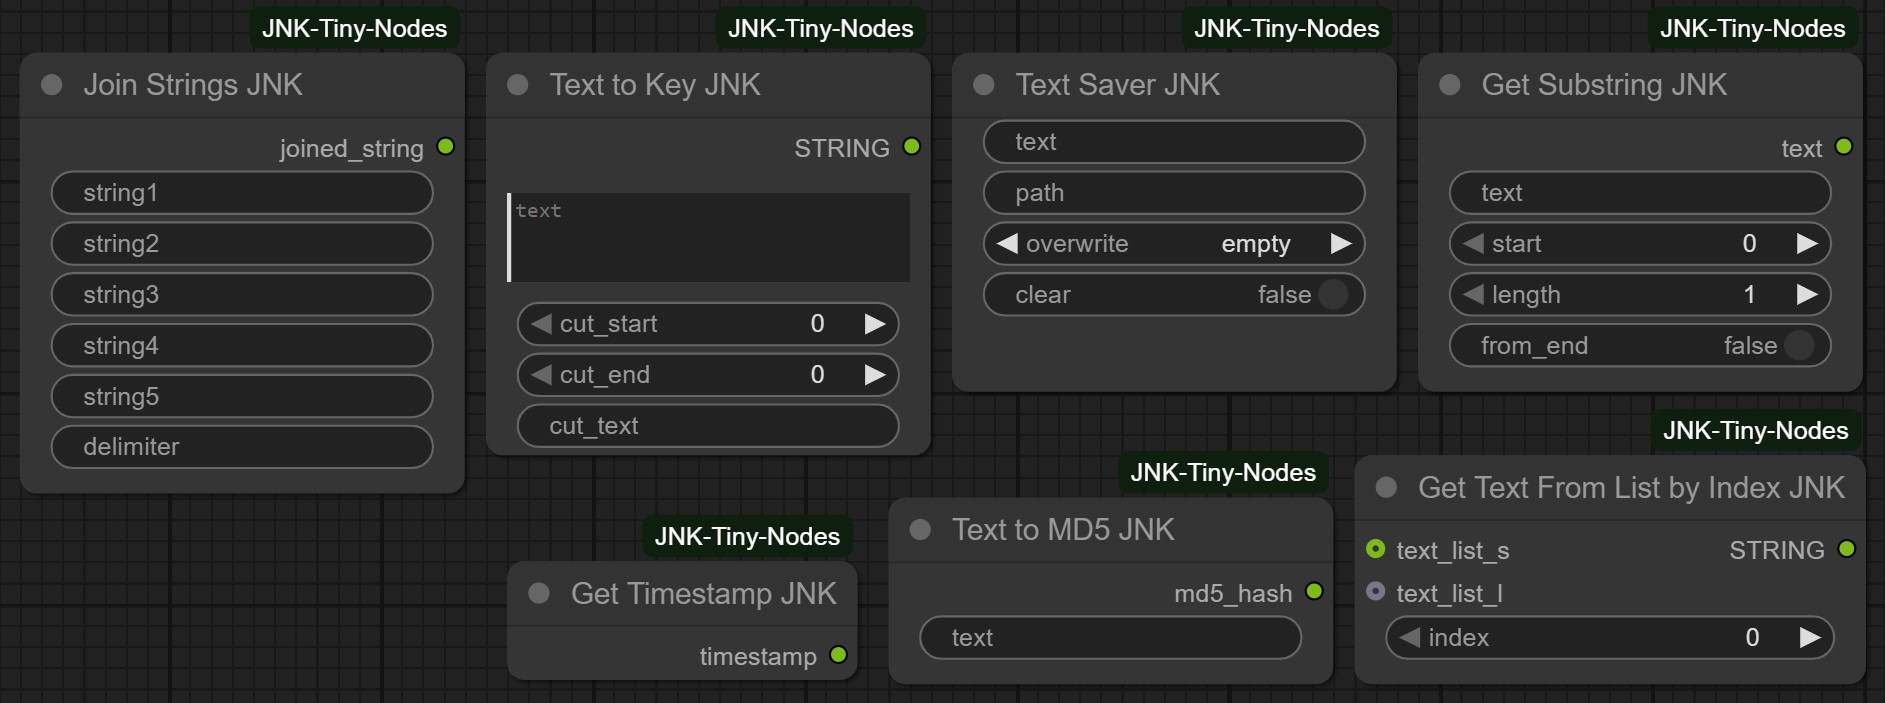
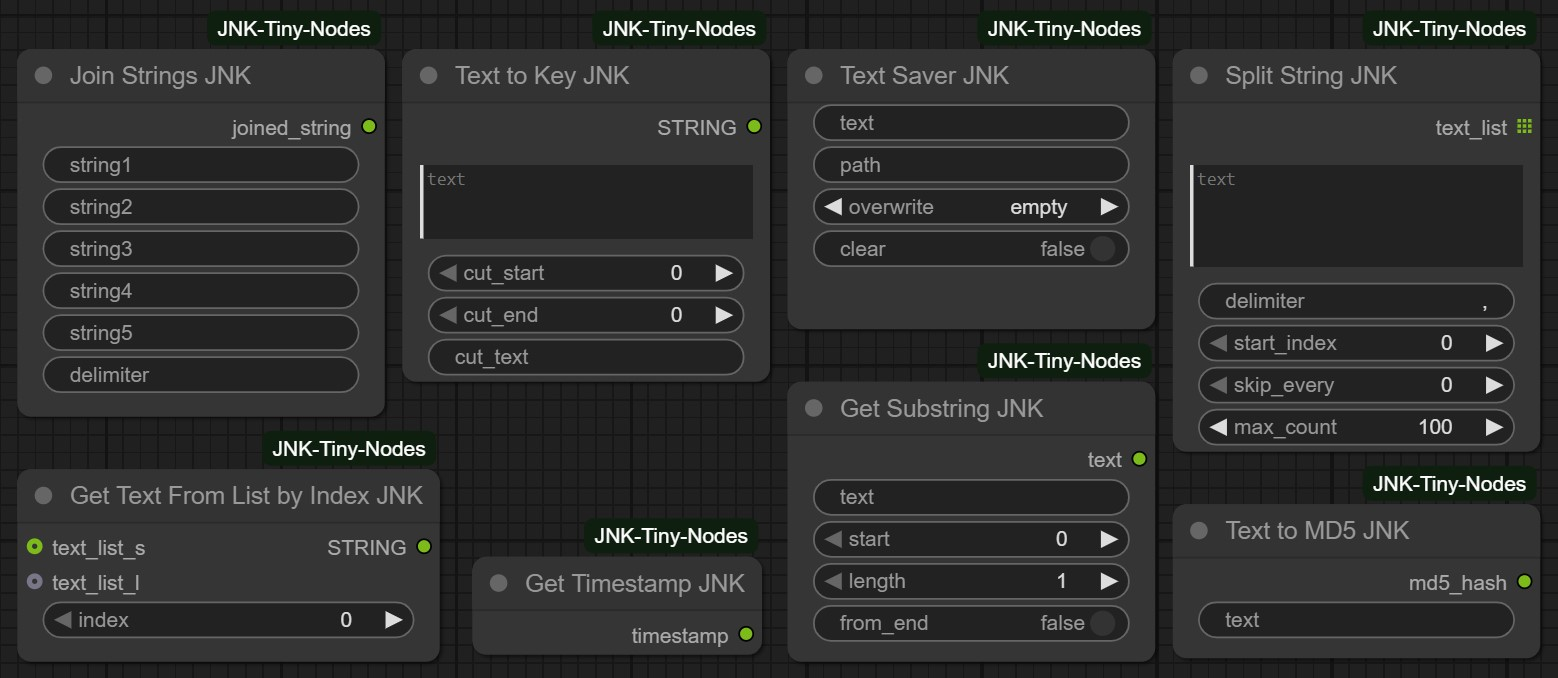
v1.1.3: Added Split String node

diff --git a/nodes.py b/nodes.py
@@ -5,6 +5,7 @@ import uuid
 import json
 import shutil
 import hashlib
+import codecs
 from datetime import datetime
 from pathlib import Path
 from typing import Any, Callable, Dict, List, Tuple, Union
@@ -1092,6 +1093,32 @@ class JoinStrings_JNK:
         strings = [s for s in [string1, string2, string3, string4, string5] if s]
         result = delimiter.join(strings)
         return (result,)
+    
+
+class SplitString_JNK:
+    @classmethod
+    def INPUT_TYPES(cls):
+        return {
+            "required": {
+                "text": ("STRING", {"multiline": True}),
+                "delimiter": ("STRING", {"default": ","}),
+                "start_index": ("INT", {"default": 0, "min": 0, "max": 1000}),
+                "skip_every": ("INT", {"default": 0, "min": 0, "max": 10}),
+                "max_count": ("INT", {"default": 100, "min": 1, "max": 1000}),
+            }
+        }
+    RETURN_TYPES = ("STRING",)
+    RETURN_NAMES = ("text_list",)
+    FUNCTION = "split_text"
+    OUTPUT_IS_LIST = (True,)
+    CATEGORY = "🔧 JNK"
+    def split_text(self, text, delimiter, start_index, skip_every, max_count):
+        if delimiter == "":arr = [text.strip()]
+        else:
+            delimiter = codecs.decode(delimiter, 'unicode_escape')
+            arr = [line.strip() for line in text.split(delimiter) if line.strip()]
+        arr = arr[start_index:start_index + max_count * (skip_every + 1):(skip_every + 1)]
+        return (arr,)
 
 class GetTimestamp_JNK:
     def __init__(self): pass

diff --git a/__init__.py b/__init__.py
@@ -27,6 +27,7 @@ NODE_CLASS_MAPPINGS = {
     "Text to Key JNK":Model2Key_JNK,
     "Text to MD5 JNK":Text2MD5_JNK,
     "Join Strings JNK":JoinStrings_JNK,
+    "Split String JNK":SplitString_JNK,
     "Get Timestamp JNK":GetTimestamp_JNK,
     ## Logic
     "Switch Integer JNK":SwitchInt_JNK,
@@ -70,6 +71,7 @@ NODE_DISPLAY_NAME_MAPPINGS = {
     "Model2Key_JNK":"Text to Key",
     "Text2MD5_JNK":"Text to MD5",
     "JoinStrings_JNK":"Join Strings",
+    "SplitString_JNK":"Split String",
     "GetTimestamp_JNK":"Get Timestamp",
     ## Logic
     "SwitchInt_JNK":"Switch (Integer)",

diff --git a/README.md b/README.md
@@ -32,17 +32,20 @@ pip install google-genai
 
 ## 🔄 Changelog
 
+### v1.1.3 (July 14, 2025)
+- Added "Split String" node for advanced text splitting. Fixed minor bugs
+
 ### v1.1.2 (July 12, 2025)
 - Added 2 utility nodes to enhance "Ask Google Gemini" workflow.
 
 ### v1.1.1 (July 10, 2025)
 - Added "Prepare Image for AI" node for optimizing images before sending to AI models (token saving)
 
-### v1.1.0 (July 8, 2025)
-- Added "Ask Google Gemini" node for text and image AI processing
-
 <details>
 <summary>Show older updates</summary>
+
+### v1.1.0 (July 8, 2025)
+- Added "Ask Google Gemini" node for text and image AI processing
 
 ### v1.0.0 (June 4, 2025)
 - Initial release
@@ -91,6 +94,7 @@ pip install google-genai
 - **Text to Key** - Convert text to key. Cuts beginning and end of text to create keys from these parts.
 - **Text to MD5** - Generate MD5 hashes from text for unique identifiers.
 - **Join Strings** - Concatenate multiple strings with custom delimiters. Text can be written directly in the node.
+- **Split String** - Split text by delimiter with start position, skip patterns, and count limits.
 - **Get Timestamp** - Generate current timestamp strings for file naming.
 
 <div align="center"><img src="images/texts.jpg" alt="Text Nodes" width="830" /></div>
